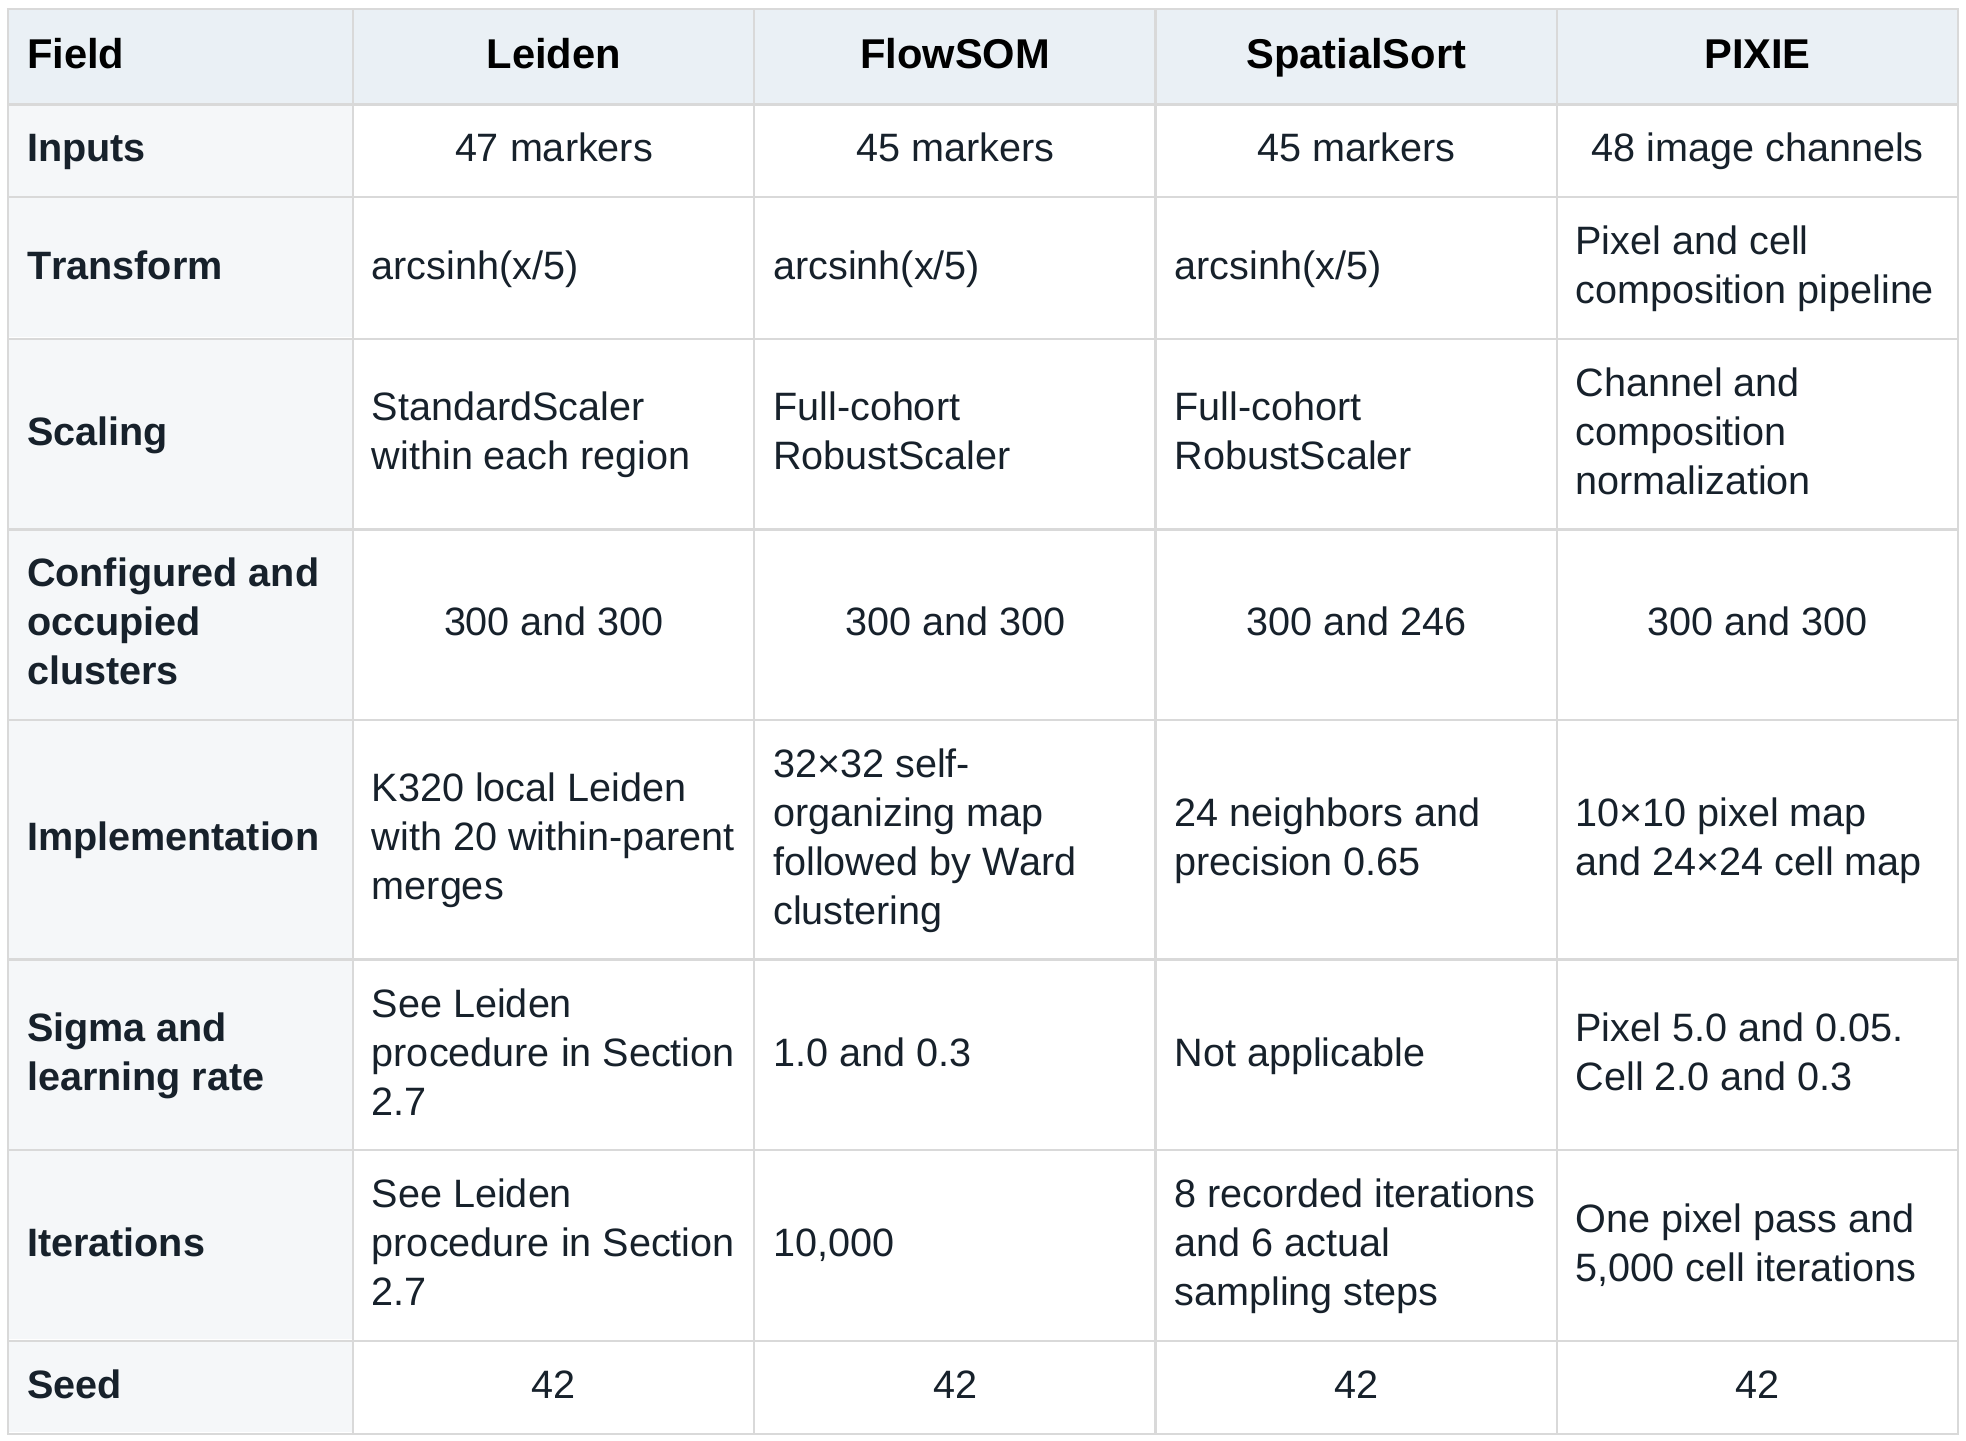
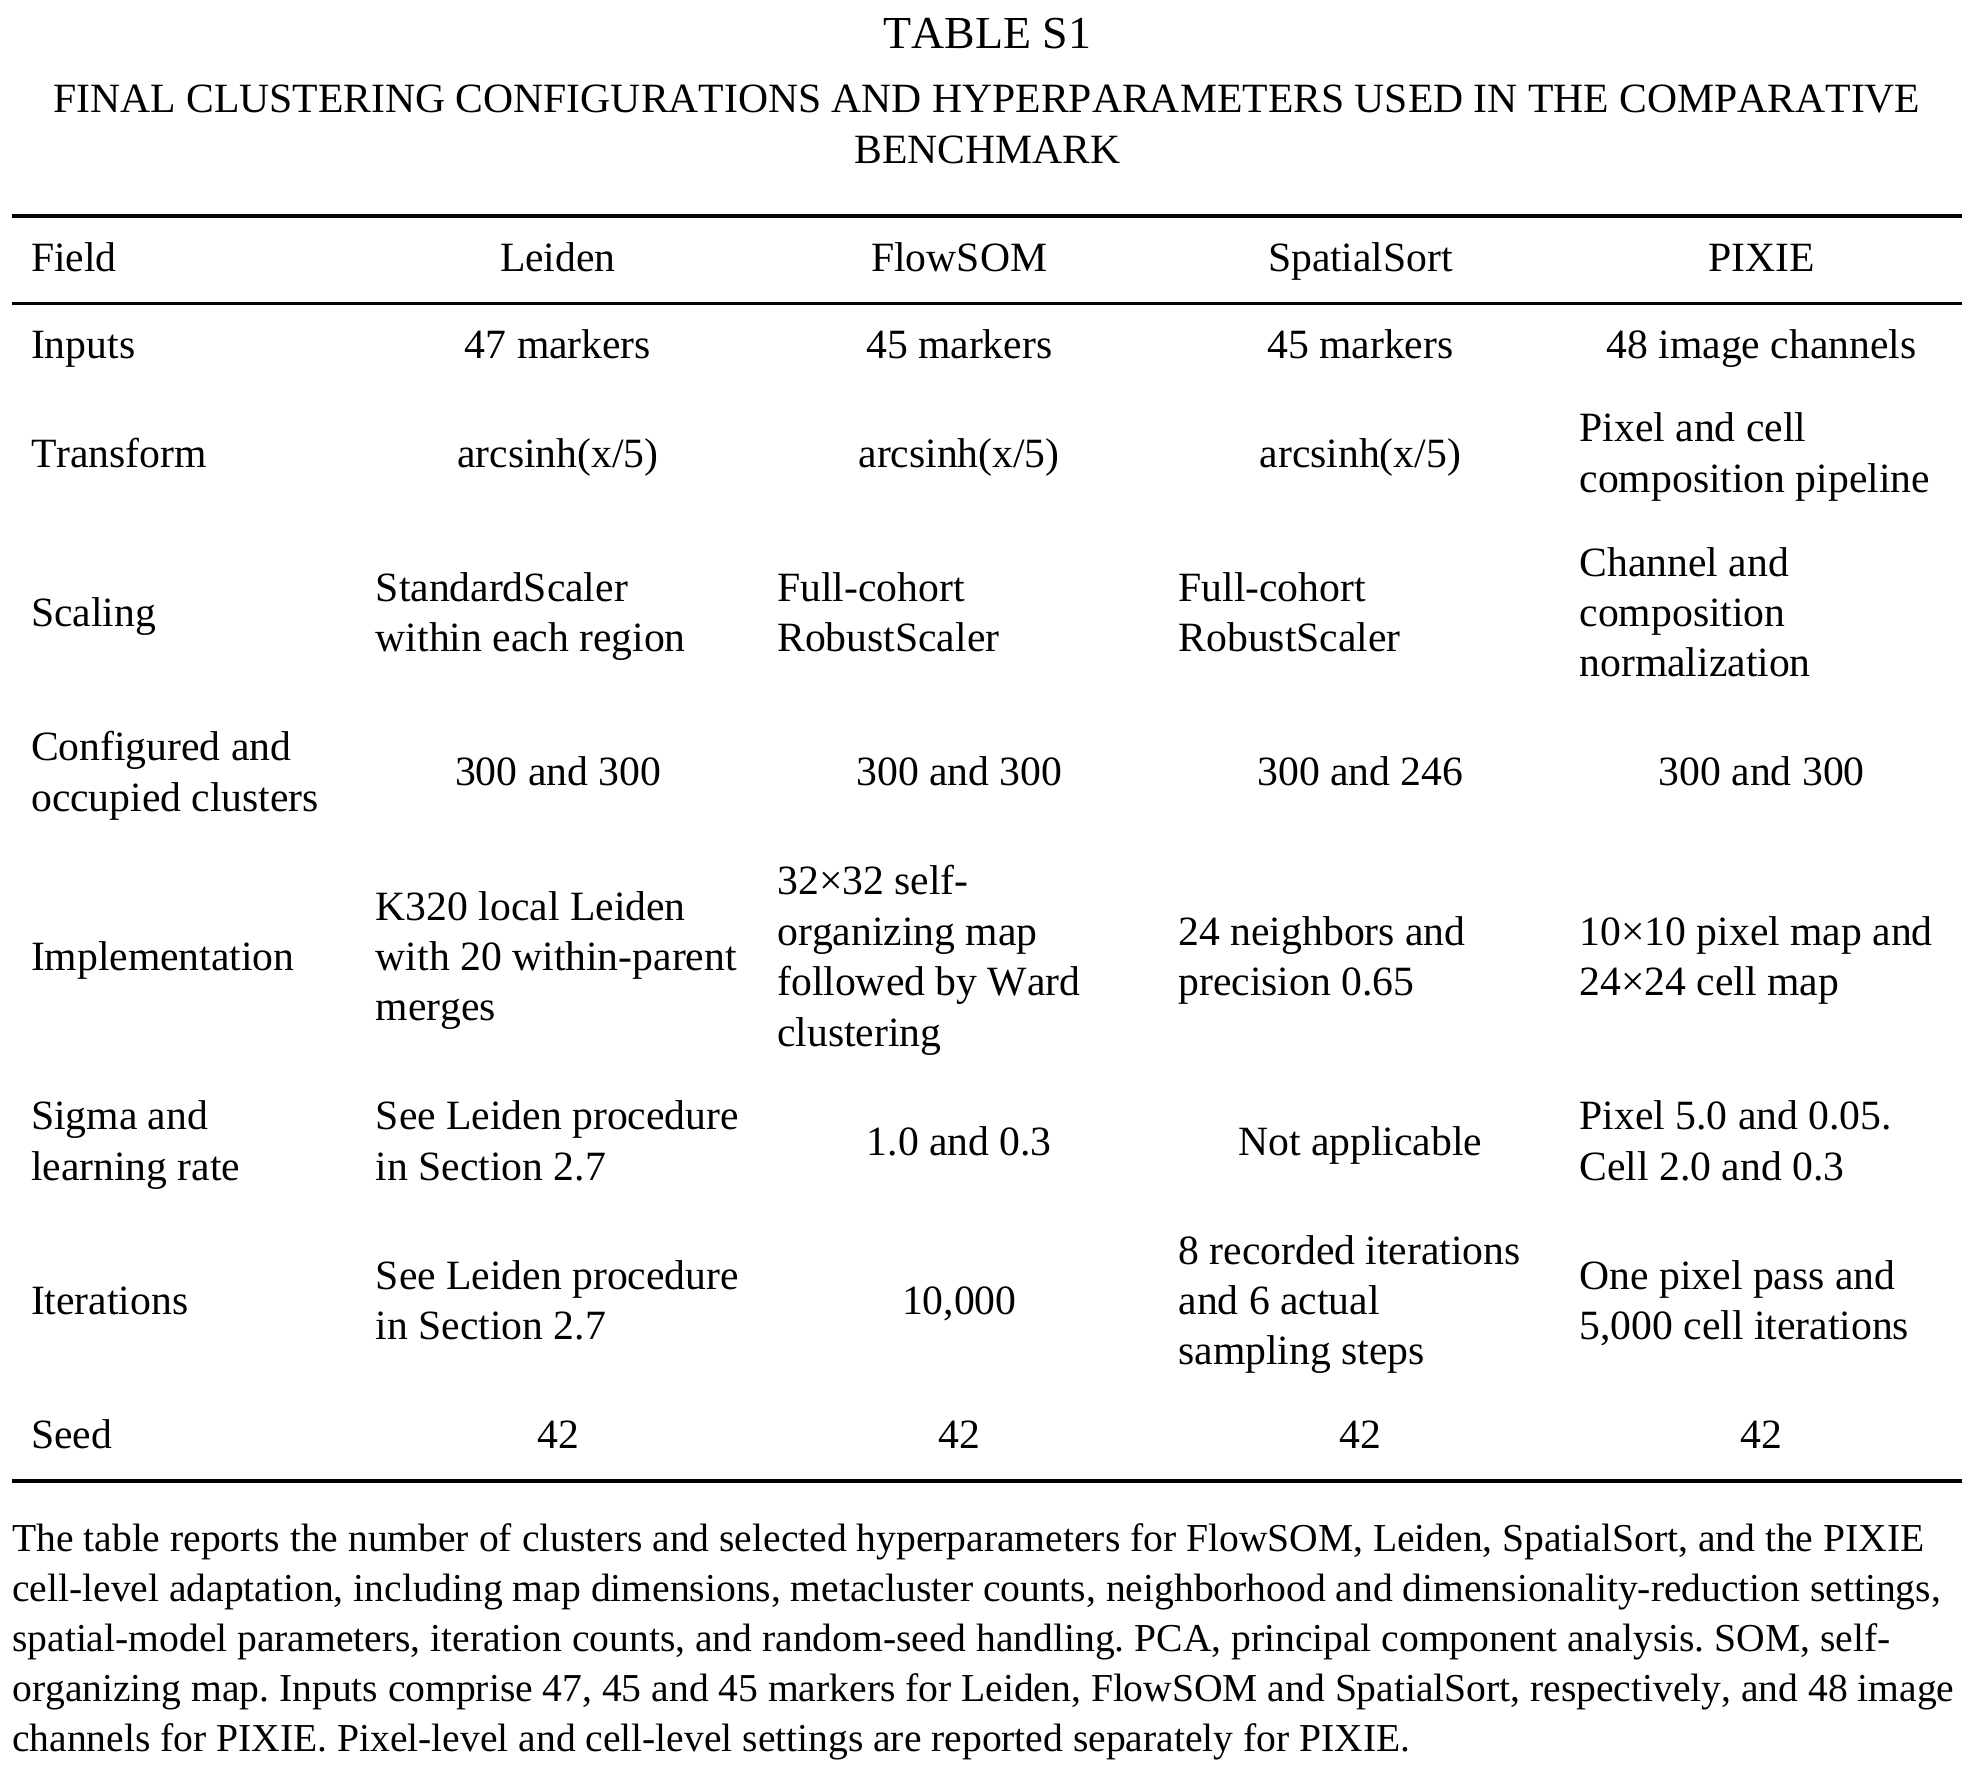
Match Table S1 to the supplied IEEE-style example

diff --git a/scripts/render_table_s01.py b/scripts/render_table_s01.py
@@ -7,6 +7,7 @@ import hashlib
 from html import escape
 import json
 from pathlib import Path
+import re
 
 from docx import Document
 from docx.enum.table import WD_TABLE_ALIGNMENT, WD_CELL_VERTICAL_ALIGNMENT
@@ -41,6 +42,14 @@ def element(parent, tag, **attributes):
     return node
 
 
+def caption_parts(data):
+    lead, separator, rest = data["caption"].partition("benchmark.")
+    if not separator or not lead.startswith("Table S1. "):
+        raise ValueError("Expected Table S1 caption lead")
+    title = (lead + separator).removeprefix("Table S1. ").rstrip(".")
+    return title.upper(), rest.strip()
+
+
 def build_document(config, data):
     document = Document()
     section = document.sections[0]
@@ -54,6 +63,14 @@ def build_document(config, data):
     normal.paragraph_format.space_before = Pt(0)
     normal.paragraph_format.space_after = Pt(0)
     normal.paragraph_format.line_spacing = config["line_spacing"]
+    title, notes = caption_parts(data)
+    for index, text in enumerate((config["caption_label"], title)):
+        paragraph = document.add_paragraph()
+        paragraph.alignment = WD_ALIGN_PARAGRAPH.CENTER
+        paragraph.paragraph_format.keep_with_next = True
+        paragraph.paragraph_format.space_after = Pt(3 if index == 0 else 9)
+        run = paragraph.add_run(text)
+        run.font.size = Pt(11 if index == 0 else 10)
     table = document.add_table(rows=9, cols=5)
     table.autofit = False
     table.alignment = WD_TABLE_ALIGNMENT.CENTER
@@ -61,8 +78,10 @@ def build_document(config, data):
         col.width = Inches(width)
     properties = table._tbl.tblPr
     borders = element(properties, "tblBorders")
-    for side in ("top", "bottom", "left", "right", "insideH", "insideV"):
-        element(borders, side, val="single", sz=4, color=config["border_color"])
+    for side in ("top", "bottom"):
+        element(borders, side, val="single", sz=round(config["top_bottom_rule_pt"] * 8), color=config["border_color"])
+    for side in ("left", "right", "insideH", "insideV"):
+        element(borders, side, val="nil")
     matrix = [data["headers"], *data["rows"]]
     for row_index, (row, values) in enumerate(zip(table.rows, matrix)):
         row_properties = row._tr.get_or_add_trPr()
@@ -78,49 +97,59 @@ def build_document(config, data):
                 element(padding, side, w=amount, type="dxa")
             fill = config["header_fill"] if row_index == 0 else config["field_fill"] if col_index == 0 else config["body_fill"]
             element(cell_properties, "shd", val="clear", fill=fill)
+            if row_index == 0:
+                header_border = element(cell_properties, "tcBorders")
+                element(header_border, "bottom", val="single", sz=round(config["header_rule_pt"] * 8), color=config["border_color"])
             paragraph = cell.paragraphs[0]
             paragraph.paragraph_format.keep_together = True
-            short_value = row_index in (1, 4, 8) and col_index > 0
+            short_value = len(value) <= 18 and col_index > 0
             paragraph.alignment = WD_ALIGN_PARAGRAPH.CENTER if (row_index == 0 and col_index > 0) or short_value else WD_ALIGN_PARAGRAPH.LEFT
             run = paragraph.add_run(value)
-            run.bold = row_index == 0 or col_index == 0
+            run.bold = config["header_bold"] if row_index == 0 else config["field_bold"] if col_index == 0 else False
             run.font.name = config["font"]
             run.font.size = Pt(config["header_font_size_pt"] if row_index == 0 else config["font_size_pt"])
             run.font.color.rgb = RGBColor.from_string("000000" if row_index == 0 else config["text_color"])
     paragraph = document.add_paragraph()
-    paragraph.paragraph_format.space_before = Pt(10)
+    paragraph.paragraph_format.space_before = Pt(8)
     paragraph.paragraph_format.line_spacing = 1.1
     paragraph.paragraph_format.keep_together = True
-    lead, separator, rest = data["caption"].partition("benchmark.")
-    if not separator:
-        raise ValueError("Expected Table S1 caption lead")
-    run = paragraph.add_run(lead + separator)
-    run.bold = True
-    paragraph.add_run(rest)
+    paragraph.add_run(notes)
     for run in paragraph.runs:
-        run.font.size = Pt(10)
+        run.font.size = Pt(9.5)
         run.font.color.rgb = RGBColor.from_string("000000")
     document.core_properties.title = "Table S1 clustering configurations"
-    document.core_properties.subject = "Presentation revision preserving current manuscript table content"
+    document.core_properties.subject = "IEEE-style presentation matching the supplied example, preserving manuscript content"
     return document
 
 
 def html_table(config, data):
-    """Retain a native editable-table path for pasting into the existing document."""
+    """Return the centered caption, native editable table and unchanged notes."""
     rows = []
     for r, values in enumerate([data["headers"], *data["rows"]]):
         cells = []
         for c, (value, width) in enumerate(zip(values, config["column_width_inches"])):
             fill = config["header_fill"] if r == 0 else config["field_fill"] if c == 0 else config["body_fill"]
-            weight = "bold" if r == 0 or c == 0 else "normal"
-            align = "center" if (r == 0 and c > 0) or (r in (1, 4, 8) and c > 0) else "left"
-            style = (f"width:{width}in;padding:5pt 4.5pt;border:0.5pt solid #{config['border_color']};"
+            weight = "bold" if (config["header_bold"] if r == 0 else config["field_bold"] if c == 0 else False) else "normal"
+            align = "center" if c > 0 and (r == 0 or len(value) <= 18) else "left"
+            rules = "border:none;"
+            if r == 0:
+                rules += f"border-top:{config['top_bottom_rule_pt']}pt solid #000000;border-bottom:{config['header_rule_pt']}pt solid #000000;"
+            if r == len(data["rows"]):
+                rules += f"border-bottom:{config['top_bottom_rule_pt']}pt solid #000000;"
+            style = (f"width:{width}in;padding:4pt 4.5pt;{rules}"
                      f"background-color:#{fill};font-family:{config['font']};font-size:{config['header_font_size_pt'] if r == 0 else config['font_size_pt']}pt;"
-                     f"font-weight:{weight};color:#{config['text_color']};text-align:{align};vertical-align:middle;line-height:108%;")
+                     f"font-weight:{weight};color:#{config['text_color']};text-align:{align};vertical-align:middle;line-height:105%;")
             tag = "th" if r == 0 else "td"
-            cells.append(f'<{tag} style="{style}">{escape(value)}</{tag}>')
+            span_style = f"font-family:'{config['font']}';font-size:{config['font_size_pt']}pt;font-weight:{weight};color:#000000;"
+            cells.append(f'<{tag} style="{style}"><span style="{span_style}">{escape(value)}</span></{tag}>')
         rows.append("<tr>" + "".join(cells) + "</tr>")
-    return '<table style="border-collapse:collapse;table-layout:fixed;width:6.5in;">' + "".join(rows) + "</table>\n"
+    title, notes = caption_parts(data)
+    caption_style = f"text-align:center;font-family:'{config['font']}';color:#000000;font-weight:normal;line-height:105%;"
+    return (f'<p style="{caption_style}font-size:11pt;margin:0 0 3pt 0;">{config["caption_label"]}</p>'
+            f'<p style="{caption_style}font-size:10pt;margin:0 0 9pt 0;">{escape(title)}</p>'
+            '<table style="border-collapse:collapse;table-layout:fixed;border:none;width:6.5in;">'
+            + "".join(rows) + "</table>\n"
+            + f'<p style="font-family:\'{config["font"]}\';font-size:9.5pt;font-weight:normal;color:#000000;line-height:110%;margin:8pt 0 0 0;">{escape(notes)}</p>')
 
 
 def verify_document(path, data):
@@ -130,8 +159,12 @@ def verify_document(path, data):
     actual = [[cell.text for cell in row.cells] for row in document.tables[0].rows]
     if actual != [data["headers"], *data["rows"]]:
         raise ValueError("A Table S1 cell changed")
-    if document.paragraphs[-1].text != data["caption"]:
-        raise ValueError("Table S1 caption changed")
+    title, notes = caption_parts(data)
+    if [p.text for p in document.paragraphs] != ["TABLE S1", title, notes]:
+        raise ValueError("Table S1 caption layout differs")
+    words = lambda text: re.findall(r"\w+", text.casefold())
+    if words(" ".join(p.text for p in document.paragraphs)) != words(data["caption"]):
+        raise ValueError("Table S1 caption words changed")
 
 
 def main():
@@ -142,12 +175,12 @@ def main():
     config, data = load_inputs()
     if args.check:
         verify_document(args.check, data)
-        print("Verified all 45 Table S1 cells and the unchanged caption")
+        print("Verified all 45 Table S1 cells and all caption words")
         return
     args.output_dir.mkdir(parents=True, exist_ok=True)
-    target = args.output_dir / "Table_S1_professional.docx"
+    target = args.output_dir / "Table_S1_IEEE.docx"
     build_document(config, data).save(target)
-    (args.output_dir / "Table_S1_professional.html").write_text(html_table(config, data))
+    (args.output_dir / "Table_S1_IEEE.html").write_text(html_table(config, data))
     verify_document(target, data)
     print(target)
 

diff --git a/docs/table_s01_presentation.md b/docs/table_s01_presentation.md
@@ -1,20 +1,24 @@
-# Table S1 presentation revision
+# IEEE-style Table S1
 
-The current native Table S1 remains an editable comparison of Leiden, FlowSOM,
-SpatialSort and PIXIE. The presentation uses a pale blue-gray header, a subtle
-field column, bold method names, consistent Arial typography, light gray rules
-and generous cell padding. Short numerical entries are centered, while longer
-settings are left aligned. Text is vertically centered, rows expand to fit
-content and the header repeats if the table spans pages.
+Table S1 follows the user's supplied IEEE-style example: Times New Roman,
+white cells, no vertical borders or body-row grid, and black horizontal rules
+at the top, below the header and at the bottom. The centered TABLE S1 label
+and uppercase descriptive title sit above the table. Original explanatory
+caption notes sit below it. Supplementary numbering is retained for manuscript
+cross-references. This is the requested visual style, not a claim of
+venue-template certification.
 
-The five columns deliberately total 6.5 inches, fitting the portrait manuscript
-text width. Body type is 9.5 pt and headers are 10 pt. The table and unchanged
-caption fit on one page. There are no fixed row heights that could clip text.
+The five columns total 6.5 inches. Body and header type are 10 pt. Short values
+are centered, while longer settings are left aligned and vertically centered.
+Automatic row heights and consistent padding let text wrap naturally.
+The table, title and notes fit on one portrait page.
 
-All **45 cell texts** and the **caption** match the current manuscript export.
-The rendered PDF table was independently extracted and checked cell by cell,
-ignoring only line-wrap whitespace. The full page was visually inspected.
-No hyperparameter, biological label or numerical result changed.
+All **45 cell texts** remain identical to the current manuscript source.
+Every caption word is retained, with capitalization and placement changed for
+the requested style. The native DOCX was checked cell by cell. Independent
+native PDF extraction matches all word/value counts, confirms Times New Roman
+for visible text and confirms there are no vertical rules. Local and native
+pages were visually inspected. No hyperparameter, label or result changed.
 
 The manuscript table is the content authority for this formatting task. The
 older notebook's three-column table has a different historical presentation
@@ -24,15 +28,14 @@ and is not substituted for it. Frozen content and provenance are in
 
 ```bash
 python scripts/render_table_s01.py --output-dir /tmp/table_s01
-python scripts/render_table_s01.py --check /tmp/table_s01/Table_S1_professional.docx
+python scripts/render_table_s01.py --check /tmp/table_s01/Table_S1_IEEE.docx
 ```
 
-The script produces an editable DOCX and a styled HTML table for the existing
-native document. Apply the document workflow's title sanitizer, render the
+The script produces an editable DOCX and native HTML with the caption, table
+and notes. Apply the document workflow's title sanitizer, render the
 DOCX, and inspect its page before native insertion. The PNG in
 `notebooks/final_figures/previews/table_s01.png` is a review snapshot from that
 verified rendering. It is not used as a substitute for the editable table.
 
-Native editable formatting is applied. The exported DOCX preserves all 45 cells
-and the caption, and the native PDF confirms Arial typography and one-page
-table/caption placement. Unrelated suggestions remain pending review.
+IEEE-style formatting is applied in Google Docs. Only this formatting
+replacement was accepted. Unrelated suggestions remain pending review.

diff --git a/notebooks/final_figures/previews/README.md b/notebooks/final_figures/previews/README.md
@@ -7,8 +7,8 @@ are committed so reviewers can inspect the results on GitHub without rerunning
 an analysis. Nine previews preserve every pixel outside 54 declared overlay
 areas. Figures S5C and S7 are separately rendered from 336 and 32 frozen results
 with their revised palettes and labels. All numerical values are retained.
-Table S1 is a verified rendering of the current editable manuscript table,
-with all 45 cells and its caption preserved during formatting.
+Table S1 is a verified IEEE-style rendering of the current editable manuscript
+table, with all 45 cells and all caption words preserved during formatting.
 
 The revised map headings use **Reference annotations**. Confusion-matrix
 reference axes use **Reference cell type**. Original dataset labels and
@@ -93,7 +93,8 @@ centered on zero for signed changes in F1. Both backends share the same scale.
 S5A/B categorical series colors are preserved. See
 [the S5 palette and source notes](../../../docs/figure_s05_color_scale.md).
 
-Table S1 uses consistent typography, deliberate column widths, a restrained
-header, subtle field shading and light gray rules. Its editable DOCX and native
-HTML are generated from the current manuscript cells. See
+Table S1 matches the supplied IEEE-style example with Times New Roman, a
+centered caption above, explanatory notes below, horizontal rules and no
+shading or vertical borders. Its editable DOCX and native HTML are generated
+from the current manuscript cells. See
 [the S1 presentation notes](../../../docs/table_s01_presentation.md).

diff --git a/data/frozen/table_s01/README.md b/data/frozen/table_s01/README.md
@@ -2,7 +2,8 @@
 
 `manuscript_table.json` contains the exact five headers, 40 body cells and
 caption from the current native manuscript table exported on 2026-10-28.
-The styling revision preserves all 45 cells and the caption verbatim.
+The styling revision preserves all 45 cell texts verbatim and every caption
+word. The IEEE-style presentation changes caption capitalization and placement.
 The JSON is protected by the checksum in `configs/table_s01.json`.
 
 The earlier three-column configuration table in the historical notebook is
